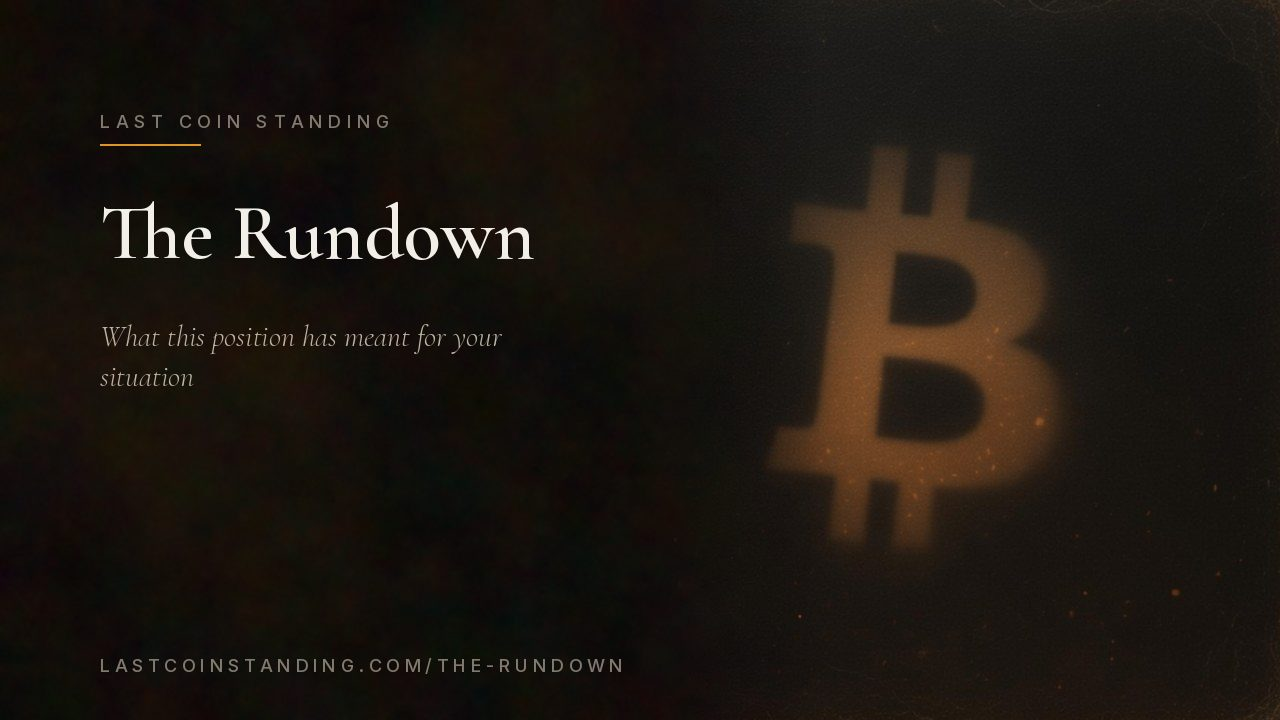
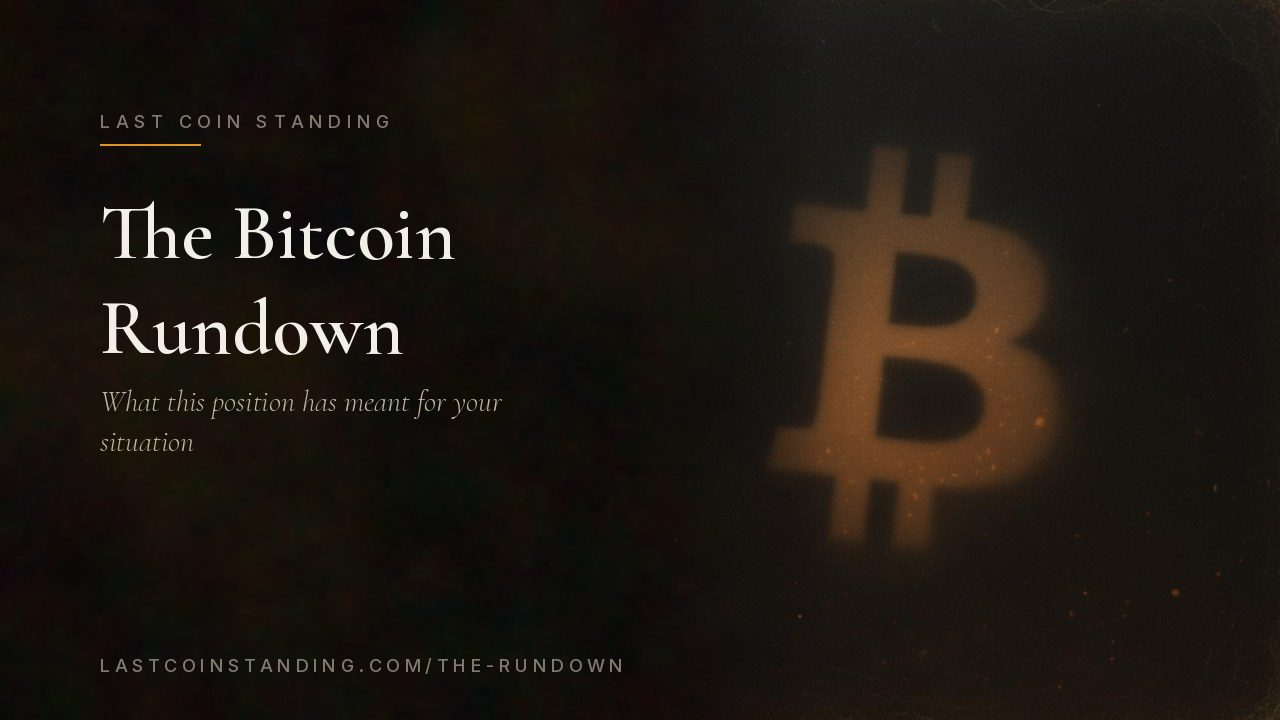
feat(og): the Rundown card carries the new name — "The Bitcoin Rundown"
Replaces og-the-rundown-v2.jpg's bytes in place. Safe: the v2 URL has never been
scraped, so no v3 bump is needed — the day-one bump exists because the V1 URL was
poisoned by a pre-merge scrape, and that is a different URL.

CUSTODY, per the §52.1 / slide-34 pattern — the placed file was verified BEFORE
committing: SHA-1 1f3aa8ba103ecc12721013d4970a009eb779cd0a, 68,796 bytes,
1280x720 RGB. Matches the digest the drafting side confirmed.

That check failed on the first attempt and the bytes were held rather than
committed, which turned out to be right: the originally quoted digest matched
nothing on disk under MD5, SHA-1 or SHA-256, and the cause was a hashing
convention rather than a bad file. PRESENTATION RE-ENCODES IMAGES, so a hash
taken before presenting names bytes that no longer exist by the time the file
reaches Downloads. Re-hashed after presentation, it matched first try.

Recorded in SITE_GUIDE's custody section as a standing convention: take the
digest AFTER presenting, or ship the file inside a zip, which is passed through
unmodified. What does not change is that a mismatch still stops the commit — the
guard against "a file appearing on disk is not evidence it passed anything" is
the same whichever way the bytes moved, and "it looks right" is not a custody
check.

Both :alt texts already name the new title, the staticAssets registration and
the -v2 tags were in place from the bump, and the generator's default stays -v2,
so this commit is the bytes and the record.

diff --git a/OPEN_ITEMS.md b/OPEN_ITEMS.md
@@ -298,26 +298,34 @@ session automatically. Close items here when done; this file is the "what's cook
   `/the-rundown`, and rewriting a dozen comment blocks is churn with a real chance of
   touching a line that matters. Recorded so the inconsistency reads as a decision.
 
-  **⛔ THE NEW OG CARD IS NOT INSTALLED — the custody check failed, and JM's own
-  instruction gates the commit on it** (*"Verify the SHA on disk matches before
-  committing"*). The file in Downloads is the right card by eye — 1280×720 RGB, 68,796
-  bytes, brand-forward, titled **"The Bitcoin Rundown"**, correct subtitle and URL footer,
-  no multiple/price/date/count — but **its hash does not match the `42c4cd6c…` JM quoted**,
-  under any of the three algorithms:
+  **THE NEW OG CARD IS INSTALLED — after a failed custody check that turned out to be a
+  hashing convention, not a bad file.** The card now reads **"The Bitcoin Rundown"**, so
+  the image agrees with the renamed page and with both `:alt` texts.
 
-  - MD5 `692006a7d25f16e2ecfe0b97f6a183e7`
-  - SHA-1 `1f3aa8ba103ecc12721013d4970a009eb779cd0a`
[1 lines of base64/hex data omitted]
+  **What happened, because the lesson is the durable part.** The digest JM quoted
+  (`42c4cd6c…`) matched the file on disk under **none** of MD5, SHA-1 or SHA-256, and
+  Downloads held no other candidate. The card was right in every other respect — 1280×720
+  RGB, brand-forward, correct title, subtitle and URL footer, no multiple/price/date/count
+  — but it was **held rather than committed**, because JM's own instruction gated the
+  commit on the hash and because "it looks right" is not a custody check. The drafting side
+  then re-hashed **after presentation** and the digest matched on the first try:
 
-  Downloads holds no other candidate. This is exactly what the §52.1 custody pattern exists
-  to catch — *the gate certifies an encode; the wiring certifies this is that encode* — so
-  the bytes were left alone rather than committed on a likeness judgement. **The v2 file on
-  disk and in production is still the old encode, which reads "The Rundown".** Everything
-  around it is ready: both `:alt` texts already name the new title, the `staticAssets`
-  registration and the `-v2` tags are in place from the day-one bump, and the generator's
-  default is `-v2`. **Swapping the bytes is one `cp` and one commit once JM confirms the
-  hash** — either by re-stating it, or by saying the file is right and the digest was
-  mis-transcribed.
+  - **SHA-1 `1f3aa8ba103ecc12721013d4970a009eb779cd0a`, 68,796 bytes, 1280×720 RGB** —
+    verified against the placed file *before* committing, per the §52.1 / slide-34 pattern.
+
+  **The cause: presentation re-encodes images.** A hash taken *before* presenting names
+  bytes that no longer exist by the time the file reaches Downloads. Recorded as a standing
+  convention in `SITE_GUIDE`'s custody section — take the digest **after** presenting, or
+  **ship the file inside a zip**, which is passed through unmodified. What does not change
+  is that a mismatch still stops the commit: the guard is the same whichever way the bytes
+  moved.
+
+  **The v2 URL had not been scraped**, which is why replacing its bytes in place was safe
+  and no v3 was needed — the day-one bump exists precisely because the **v1** URL was
+  poisoned by a pre-merge scrape (see above). Old files stay on disk per JM: `og-the-rundown.jpg`
+  (v1, poisoned URL) and the previous v2 encode is simply overwritten. Both `:alt` texts
+  name the new title, the `staticAssets` registration and the `-v2` tags were already in
+  place from the bump, and the generator's default stays `-v2`.
   **⏰ STILL TO DO, AND IT NEEDS JM'S ACCOUNT: resubmit the sitemap and request indexing**
   in Google Search Console (`NEW_PAGE_CHECKLIST §10`, publish-day habit; the standing sweep
   is `MONTHLY_REFRESH_CHECKLIST §9.5`). Nothing in this session can do it — it is the one

diff --git a/SITE_GUIDE.md b/SITE_GUIDE.md
@@ -797,6 +797,8 @@ Visual confirmation alongside the numbers: both branches equally lit in every fr
 
 **Custody — the step the gate implies but does not itself perform.** A gate result certifies **a specific encode**, not a filename. So the wiring step verified the placed file's **SHA-1 against the gated encode** (`4cd5a4fdaa2a778a3323fb811ca5df4d834b0c5c`, 5,972,363 bytes) before anything was committed, and the file was deliberately **left untracked and unwired** on first discovery, because a file appearing on disk is not evidence that it passed anything. **Make this the pattern:** the gate says *this encode passed*; the wiring PR says *this is that encode*; the post-merge check says *this is what production serves*. Without those the gate result is a claim about a file nobody can identify later. The full chain for this slide — gated → placed → committed → served on preview → served from production → playing — is recorded on row 34, and the last link is the one no automated check here could close: the pane runs hidden, so playback was confirmed by JM on the preview rather than asserted from a `readyState`.
 
+
+**Hashing an image from the drafting side — take the digest AFTER presenting it (added 2026-09-07).** The custody rule above assumes the hash identifies the bytes that arrive. For **images handed over from the drafting chat that is not automatically true: presentation re-encodes them**, so a digest taken *before* presenting names a file that no longer exists by the time it reaches Downloads, and the wiring step fails a check that was never going to pass. It cost a round trip on `og-the-rundown-v2.jpg`: the quoted SHA matched nothing on disk under MD5, SHA-1 **or** SHA-256, the card was correct in every other respect, and the bytes were held — correctly — until the drafting side re-hashed after presentation and the new digest matched. **Two ways to avoid it, both cheap:** take the hash **after** presenting, or **ship the file inside a zip**, which is passed through unmodified. **What does NOT change: a mismatch still stops the commit.** The failure mode this guards against — a file appearing on disk being taken as evidence it passed something — is exactly the same whether the cause is a swapped asset or a re-encode, and "it looks right" is not a custody check. Verify, then commit; if it fails, ask rather than judging by eye.
 **Container check, as usual:** one video stream, zero audio streams (no `soun`/`mp4a`), no mjpeg thumbnail stream, `moov` at byte 36 ahead of `mdat` — silent and `+faststart` at hand-off, nothing to strip.
 
 **Placement.** Immediately after Bitcoin Escape Velocity, which is the retirement funnel's own order — size one plan, then weigh two — and the same adjacency logic the family's other slides follow. `data-feat="0"`: The Bitcoin Retirement keeps the family's Featured voice.
